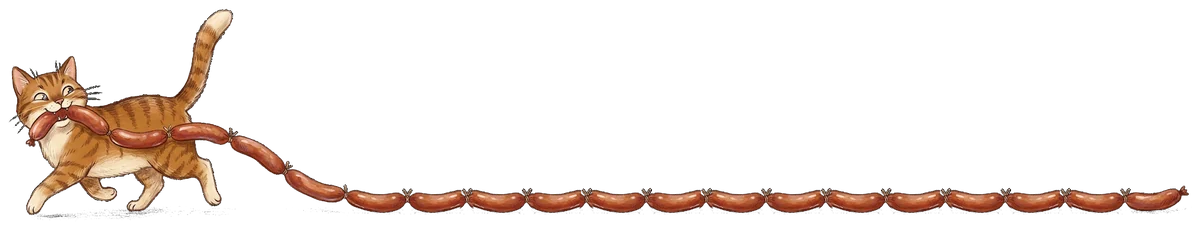
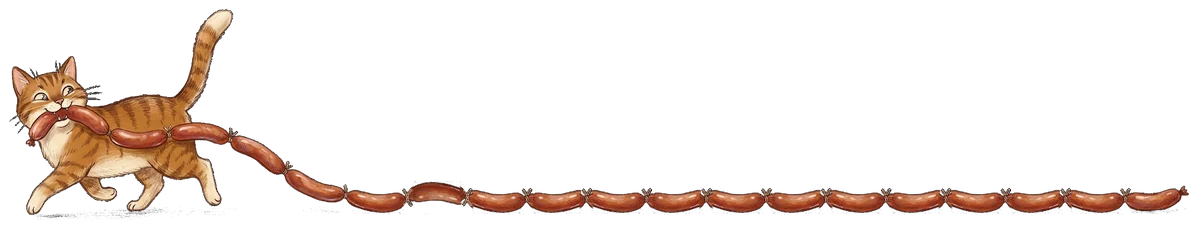
404: one sausage turned over, the string looks twisted (CEO TG 2186)
img/404/cat-chain-*.webp re-rendered with _Kit/shop-with-bot/tools/404-chain-extend.py --twist 0: the first added
link is flipped about its axis (glossy side under, arches up), both its joints show twine above and below the waist.
Cat pixels unchanged (columns 0-693 identical to the cutout). 40/68/103 KB. 404.html comment aligned with the kit
shell (stage_scale token): the kit render from status-pages/status.json equals this file except the CSP meta.
design-ready.py on status-pages/qa-404-chain: YES. prerender --check passes.

Changed region(s): [[0.3397, 0.8018, 0.4015, 0.9559]]

diff --git a/404.html b/404.html
@@ -152,7 +152,7 @@ a.st-row strong { color: var(--st-accent-ink); }
 .cd-stage { position: relative; margin: 0; padding-left: 16px; }
 .cd-cat { display: block; width: 100%; padding: 0; border: 0; background: none; cursor: pointer; border-radius: var(--st-r-lg);
   animation: cd-in .9s var(--st-spring) .15s both; }
-.cd-cat img { width: 249.64%; max-width: none; height: auto;   /* 2082/834: the cat keeps its size, the string trails off-screen */
+.cd-cat img { width: 249.64%; max-width: none; height: auto;   /* stage_scale: the cat keeps its size, a long string trails off-screen */
   transition: transform .5s var(--st-spring); }
 .cd-cat.is-tug img { transform: translateX(-14px) rotate(-1.5deg); transition-duration: .14s; }
 @keyframes cd-in { from { transform: translateX(56px); opacity: 0; } to { transform: none; opacity: 1; } }
